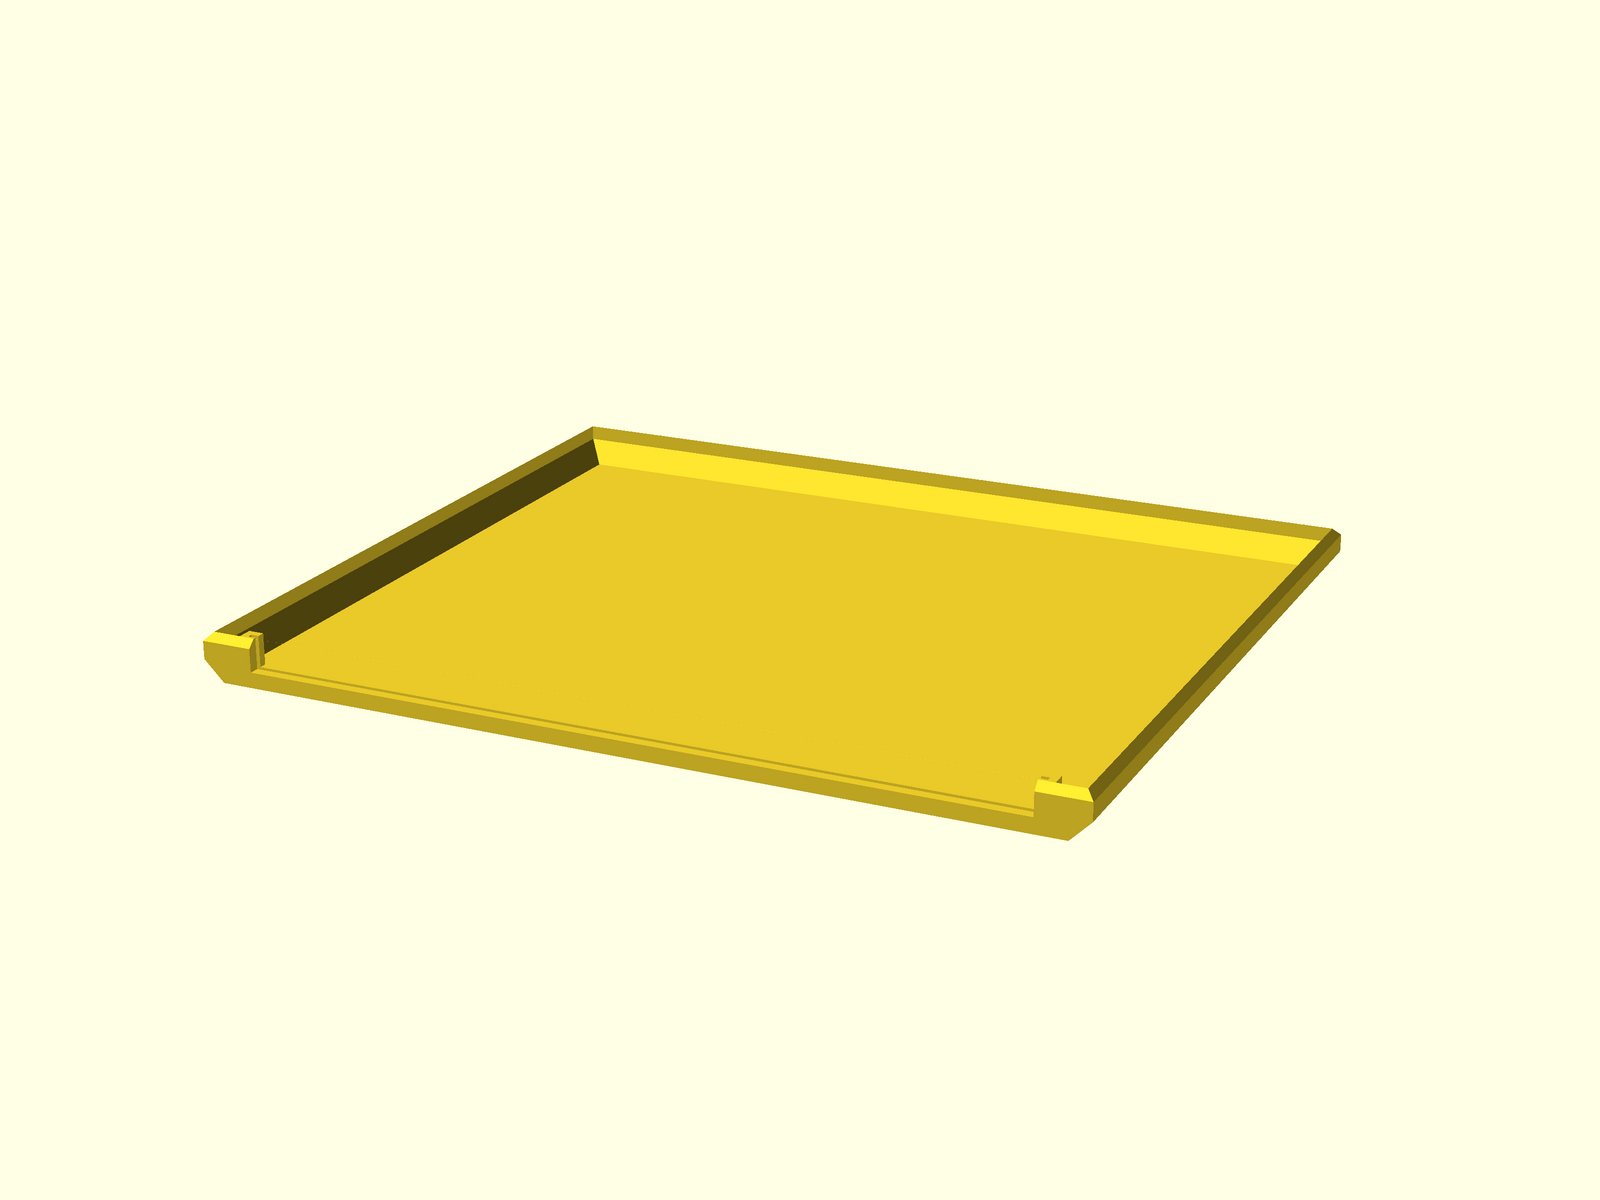
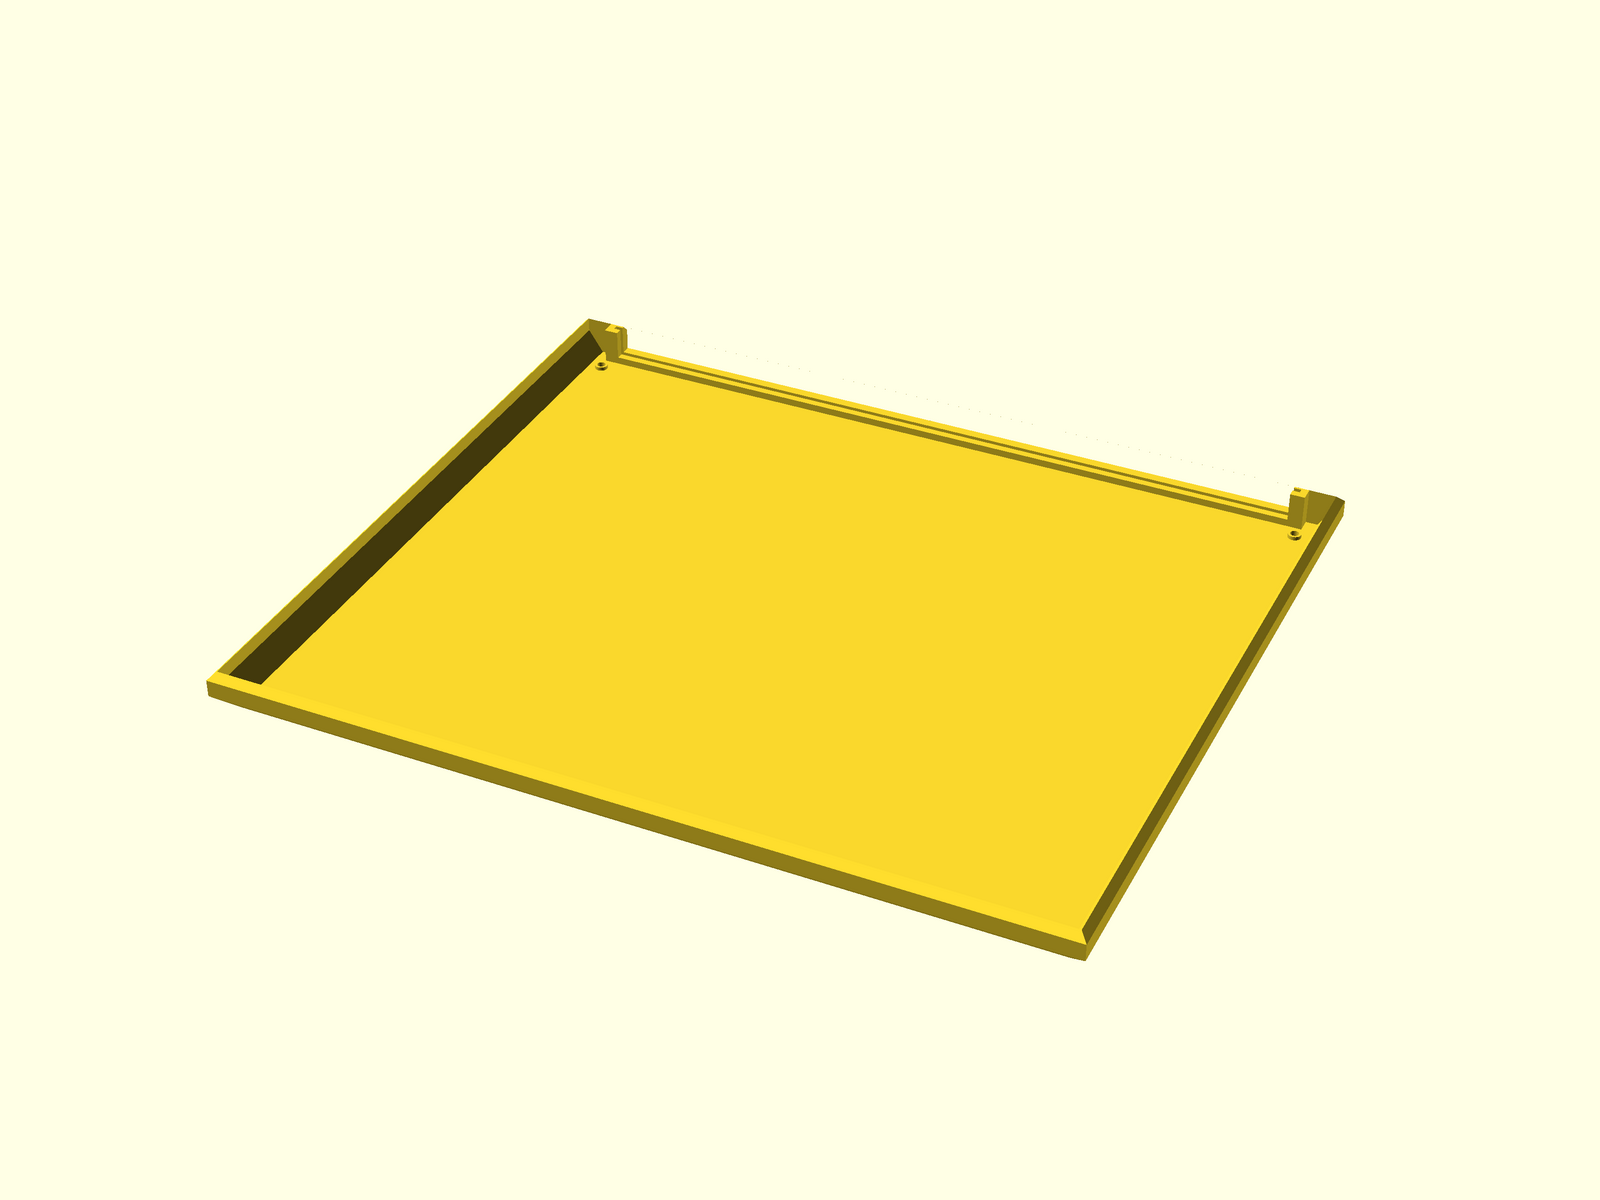
Add reinforced leg mounting holes

Changed region(s): [[0.125, 0.2467, 0.8438, 0.8017]]

diff --git a/NOTES.md b/NOTES.md
@@ -73,6 +73,11 @@ All dimensions are in millimeters.
 | Rear outer guide rail | 312 long x 4 deep x 15 high |
 | Rear guide channel | 2 deep, with the case floor at its bottom |
 | Rear inner guide rail | 306 long x 3 deep x 15 high |
+| Leg hole centers | 15 from each adjacent outer edge |
+| Leg through-hole | 3.5 diameter |
+| Leg exterior counterbore | 5.5 diameter x 1.5 deep |
+| Leg interior reinforcement | 5.5 diameter x 1.5 high |
+| Leg hole cylinder segments | 128 |
 
 The case is an open-top shell with 3 mm walls and floor. The front and both
 sides have an 8 mm external bottom chamfer; the rear remains square. The
@@ -91,3 +96,7 @@ rear wall and the complete guide depth from Z=6 to Z=18. The guide extends
 down to the inner floor at Z=3, leaving a continuous 3 mm-high base beneath
 the opening. Its exterior top edge has the same 3 mm, 45-degree chamfer as
 the case rim.
+
+Four leg mounting holes are positioned symmetrically near the corners. Each
+has a through-hole, a concentric counterbore entering from the exterior
+underside, and a concentric reinforcement boss rising from the inner floor.